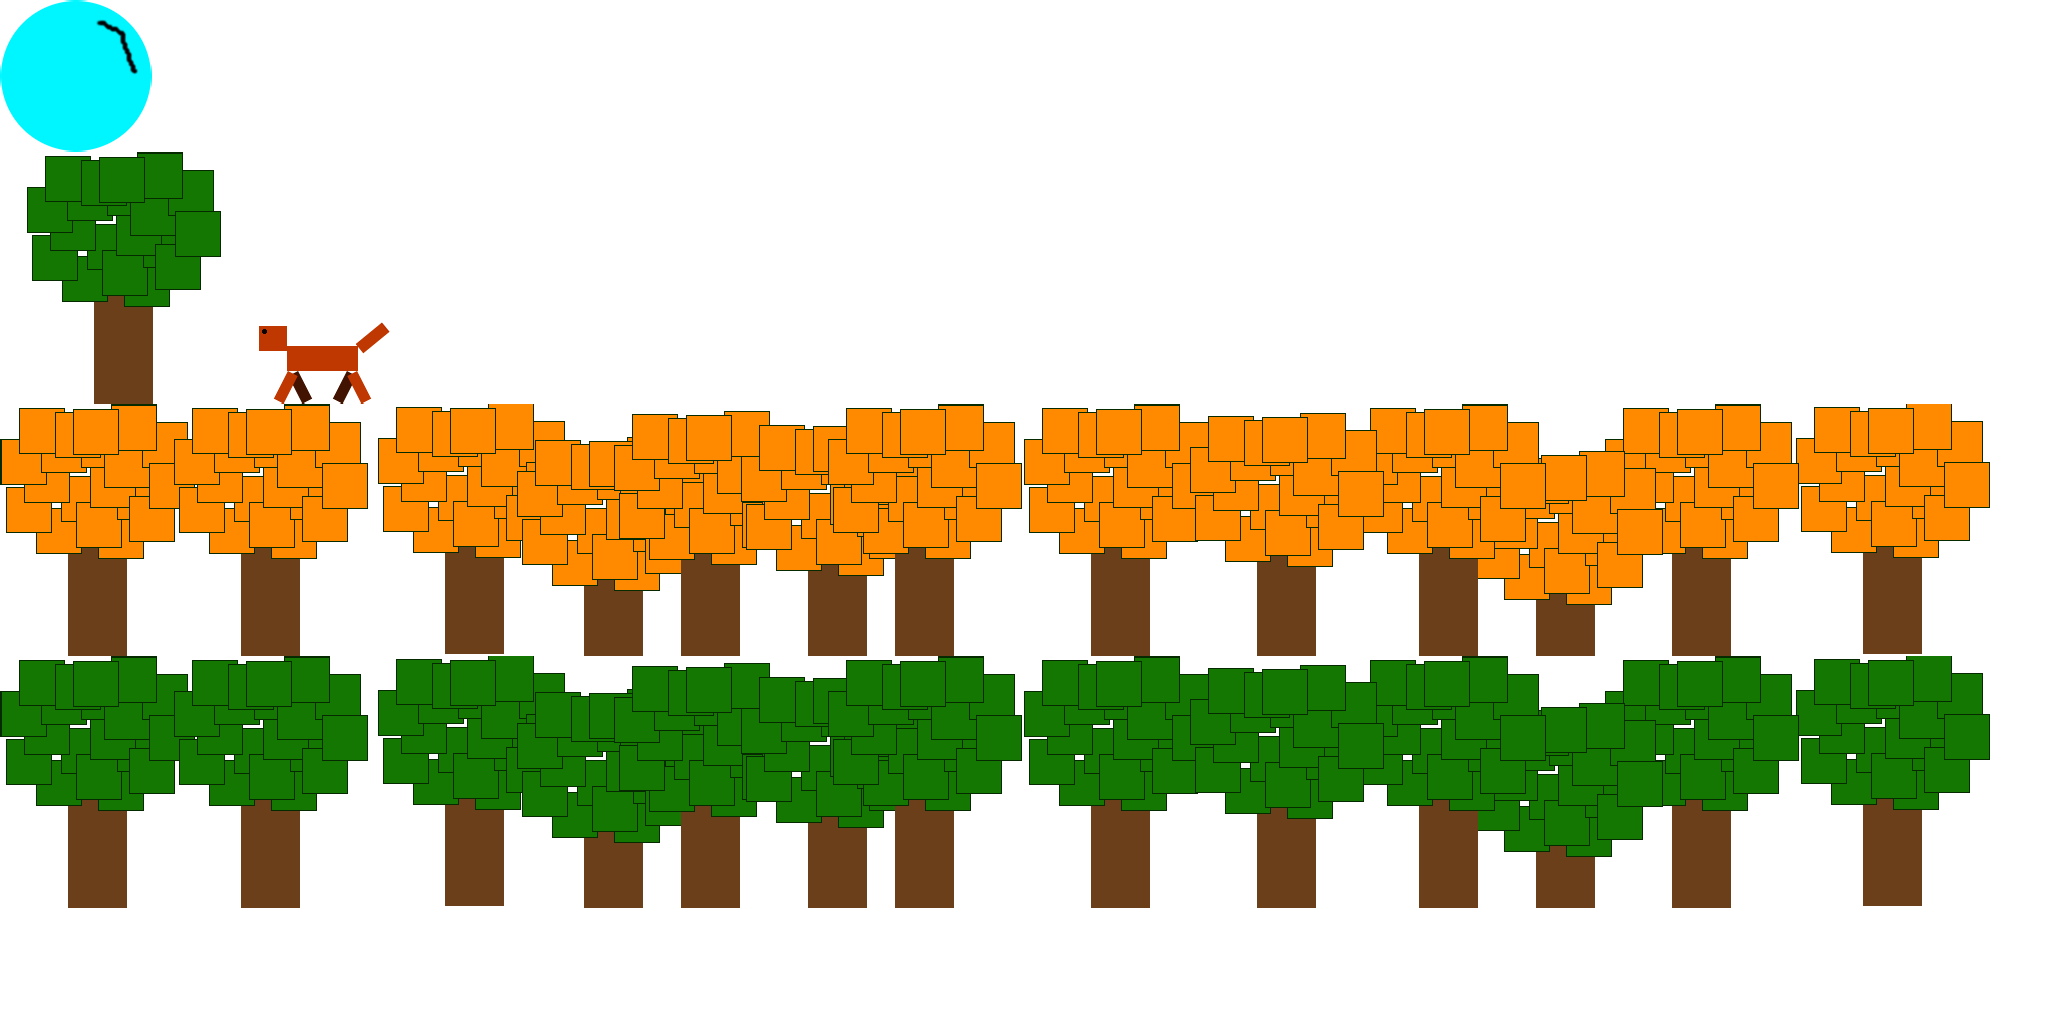
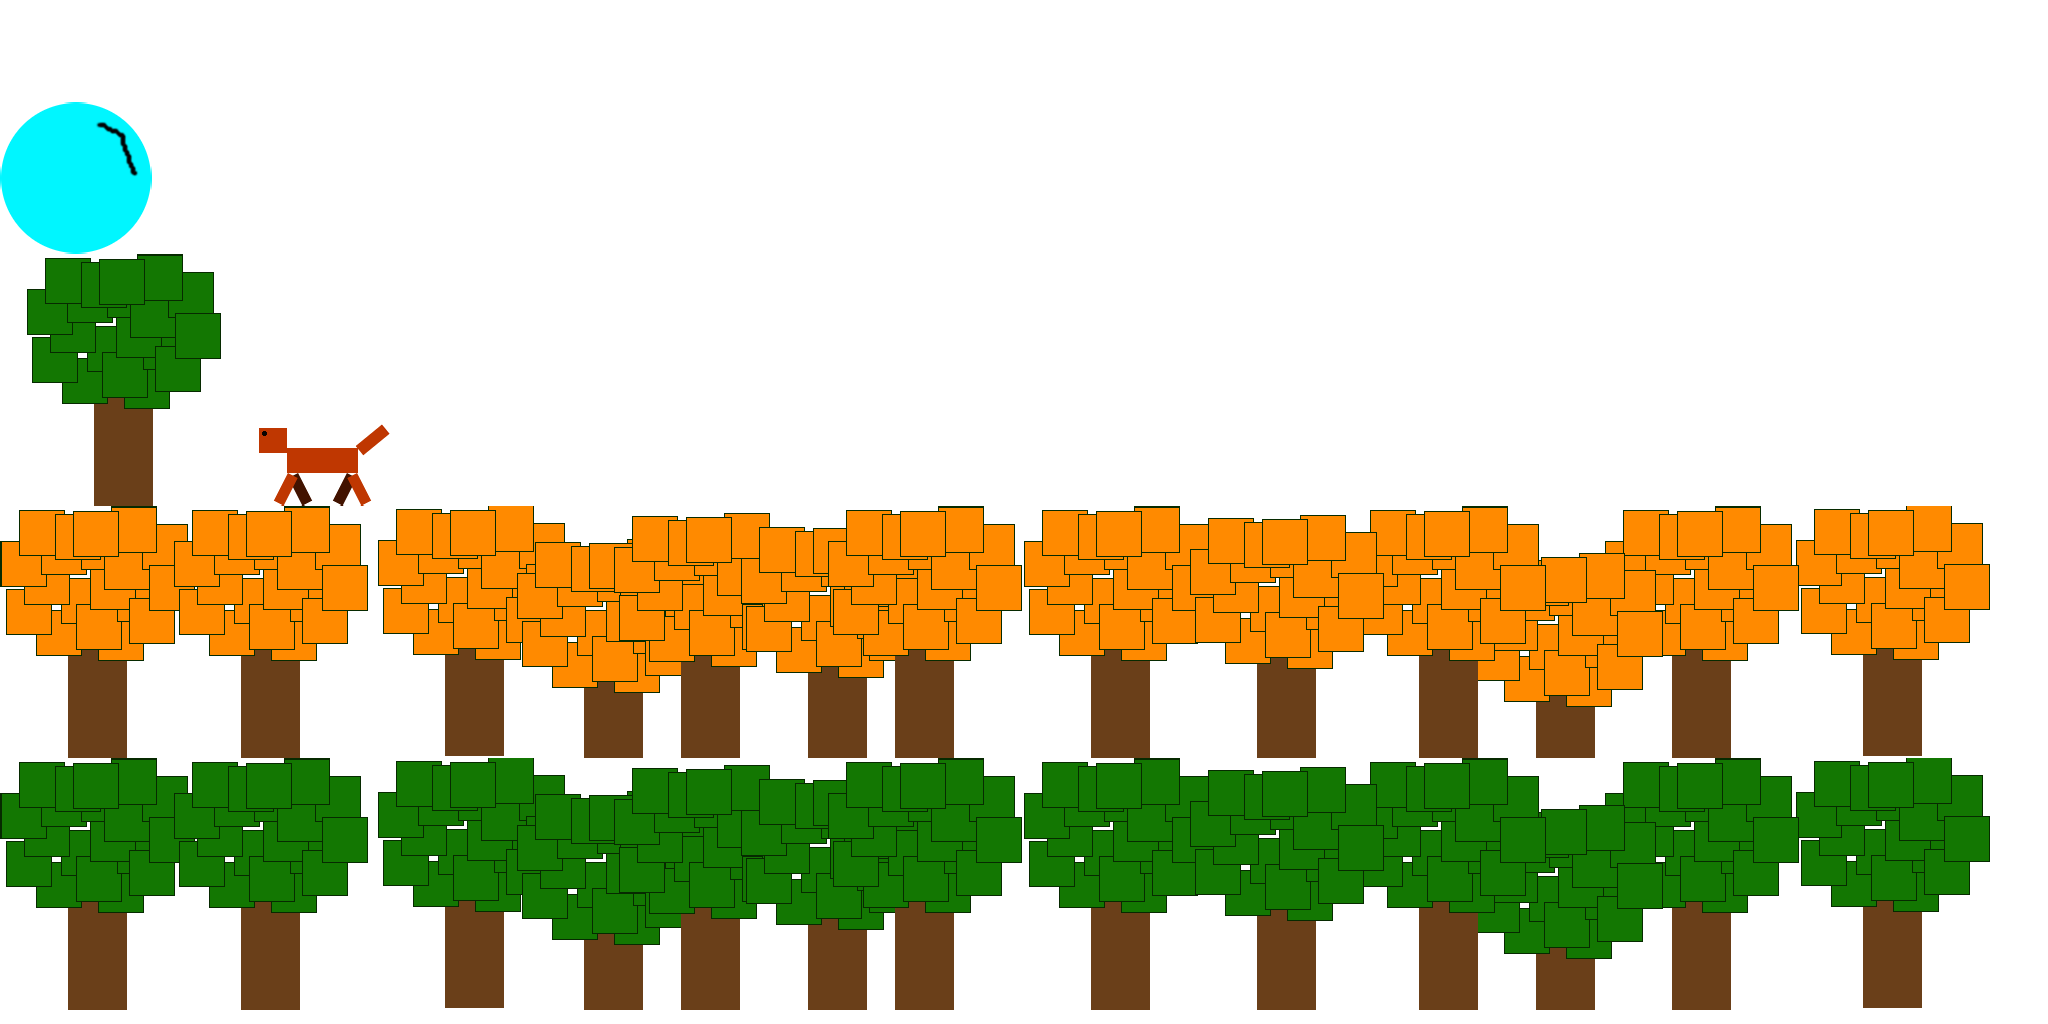
Added scaling for assets

diff --git a/Circle/core/src/com/circleboy/moveable/Moveable.java b/Circle/core/src/com/circleboy/moveable/Moveable.java
@@ -2,30 +2,49 @@ package com.circleboy.moveable;
 
 import java.util.LinkedList;
 
+import com.badlogic.gdx.graphics.g2d.BitmapFont;
 import com.badlogic.gdx.graphics.g2d.Sprite;
 import com.badlogic.gdx.graphics.g2d.SpriteBatch;
+import com.badlogic.gdx.math.Rectangle;
 import com.badlogic.gdx.math.Vector2;
 import com.circleboy.event.AbstractDrawableEvent;
+import com.circleboy.util.ScalingUtil;
 
 public class Moveable
 {
     private final Vector2 pos;
     private final Sprite sprite;
+    private float baseScreenMovement;
     private float baseMovement;
     private final LinkedList<AbstractDrawableEvent> events;
+    private final BitmapFont font;
 
-    public Moveable(final float x, final float y, final Sprite sprite, final float baseMovement)
+    public Moveable(final float x, final float y, final Sprite sprite, final float baseScreenMovement,
+            final float baseMovement)
     {
         events = new LinkedList<AbstractDrawableEvent>();
-        pos = new Vector2(x, y);
+        final Vector2 scale = ScalingUtil.getScale();
+        sprite.setScale(scale.x, scale.y);
+
+        Rectangle rect = sprite.getBoundingRectangle();
+
+        pos = new Vector2(-1 * rect.x + x, -1 * rect.y + y);
+//        pos = new Vector2(x, y);
+        System.out.println("Original pos " + x + " " + y);
+        System.out.println("\tSetting position to " + pos);
+        System.out.println("\trectangle shows " + rect);
         sprite.setPosition(pos.x, pos.y);
+
         this.sprite = sprite;
+        this.baseScreenMovement = baseScreenMovement;
         this.baseMovement = baseMovement;
+        font = new BitmapFont();
     }
 
     public void update(final Moveable circle, final float dt, final float movementFactor)
     {
-        pos.x += baseMovement * movementFactor * dt;
+        float movement = (baseScreenMovement * movementFactor + baseMovement) * dt;
+        pos.x += movement;
         sprite.setPosition(pos.x, pos.y);
 
         processEvents(circle);
@@ -34,6 +53,7 @@ public class Moveable
     public void draw(SpriteBatch batch)
     {
         sprite.draw(batch);
+        font.draw(batch, "butt", pos.x, pos.y + sprite.getHeight());
     }
 
     private void processEvents(final Moveable circle)
@@ -65,6 +85,11 @@ public class Moveable
         sprite.setPosition(x, y);
     }
 
+    public void setBaseScreenMovement(final float movement)
+    {
+        baseScreenMovement = movement;
+    }
+
     public void setBaseMovement(final float movement)
     {
         baseMovement = movement;
@@ -75,9 +100,30 @@ public class Moveable
         return pos;
     }
 
+    public float getHeight()
+    {
+        return sprite.getBoundingRectangle().height;
+    }
+
     public float getWidth()
     {
+        return sprite.getBoundingRectangle().width;
+    }
+    
+    /*
+     * Used to get the original size of a sprite's texture. Scaling changes the texture's width found by getWidth().
+     */
+    public float getOriginalSpriteWidth()
+    {
         return sprite.getWidth();
+    }
+
+    /*
+     * Used to get the original size of a sprite's texture. Scaling changes the texture's height found by getHeight().
+     */
+    public float getOriginalSpriteHeight()
+    {
+        return sprite.getHeight();
     }
 
     public Sprite getSprite()

diff --git a/Circle/core/src/com/circleboy/gamestates/GameState.java b/Circle/core/src/com/circleboy/gamestates/GameState.java
@@ -2,14 +2,19 @@ package com.circleboy.gamestates;
 
 import java.util.LinkedHashMap;
 import java.util.Map.Entry;
+import java.util.Random;
 
 import com.badlogic.gdx.ApplicationAdapter;
 import com.badlogic.gdx.Gdx;
 import com.badlogic.gdx.InputProcessor;
 import com.badlogic.gdx.assets.AssetManager;
 import com.badlogic.gdx.graphics.GL20;
+import com.badlogic.gdx.graphics.g2d.Sprite;
 import com.badlogic.gdx.graphics.g2d.SpriteBatch;
 import com.badlogic.gdx.graphics.g2d.TextureAtlas;
+import com.badlogic.gdx.math.Rectangle;
+import com.badlogic.gdx.math.Vector2;
+import com.circleboy.util.ScalingUtil;
 import com.circleboy.util.definitions.DrawableEventDefinitions;
 import com.circleboy.util.definitions.LayerEventDefinitions;
 import com.circleboy.util.definitions.TextureConstants;
@@ -28,16 +33,19 @@ public class GameState extends ApplicationAdapter implements InputProcessor
     private Moveable circle;
     private float timeSinceLastUpdate;
     private float movementFactor;
+    private Random rando;
 
     @Override
     public void create()
     {
+        ScalingUtil.setScale(Gdx.graphics.getWidth(), Gdx.graphics.getHeight());
         timeSinceLastUpdate = 0;
         movementFactor = 0;
         batch = new SpriteBatch();
         assMan = new AssetManager();
         assMan.load(TextureConstants.TILE_TEXTURES, TextureAtlas.class);
         assMan.finishLoading();
+        rando = new Random();
         atlas = assMan.get(TextureConstants.TILE_TEXTURES);
 
         scene = new LinkedHashMap<LayerType, Layer>();
@@ -52,10 +60,25 @@ public class GameState extends ApplicationAdapter implements InputProcessor
 
     private void constructScene()
     {
-        Layer tmpLayer = new Layer(atlas, LayerType.BACKGROUND, 2);
+        Layer tmpLayer = new Layer(atlas, LayerType.BACKGROUND, 3);
         scene.put(LayerType.BACKGROUND, tmpLayer);
 
         tmpLayer = new Layer(atlas, LayerType.CIRCLE, 1);
+        Sprite sprite = new Sprite(atlas.findRegion(TextureConstants.SQUARE_KEY));
+        sprite.setColor(1, 1, 0, 1);
+
+//        System.out.println("before " + sprite.getBoundingRectangle() + " width " + sprite.getWidth());
+//        final Vector2 scale = ScalingUtil.getScale();
+        sprite.setScale(.5f, .5f);
+//        System.out.println("after " + sprite.getBoundingRectangle() + " width " + sprite.getWidth());
+        sprite.setScale(1.6f, 1.6f);
+//        System.out.println("second after: " + sprite.getBoundingRectangle() + " width " + sprite.getWidth());
+        sprite.setScale(ScalingUtil.getScale().x, ScalingUtil.getScale().y);
+//        System.out.println("third after: " + sprite.getBoundingRectangle() + " width " + sprite.getWidth());
+
+        rando.nextInt(200);
+        Moveable moveable = new Moveable(0, 700, sprite, 0, 0);
+        tmpLayer.addMoveable(moveable);
         scene.put(LayerType.CIRCLE, tmpLayer);
     }
 

diff --git a/Circle/core/src/com/circleboy/event/CircleDistanceEvent.java b/Circle/core/src/com/circleboy/event/CircleDistanceEvent.java
@@ -6,13 +6,22 @@ import com.circleboy.util.MathUtils;
 
 public class CircleDistanceEvent extends AbstractDrawableEvent
 {
+    public enum Operator
+    {
+        LESS_THAN, GREATER_THAN;
+    }
+
     private float triggerDistance;
     private float speedBoost;
+    private float baseSpeed;
+    private Operator operator;
 
-    public CircleDistanceEvent(final float triggerDistance, final float speedBoost)
+    public CircleDistanceEvent(final float triggerDistance, final float speedBoost, final float baseSpeed, final Operator operator)
     {
         this.triggerDistance = triggerDistance;
         this.speedBoost = speedBoost;
+        this.operator = operator;
+        this.baseSpeed = baseSpeed;
     }
 
     @Override
@@ -21,16 +30,17 @@ public class CircleDistanceEvent extends AbstractDrawableEvent
         Vector2 p1 = circle.getPosition();
         Vector2 p2 = moveable.getPosition();
         float distance = MathUtils.getDistance(p1, p2);
-        if(distance <= triggerDistance)
-            return true;
+        if(Operator.LESS_THAN.equals(operator))
+            return Float.compare(distance, triggerDistance) < 0;
 
-        return false;
+        return Float.compare(distance, triggerDistance) > 0;
     }
 
     @Override
     protected void process(final Moveable circle, final Moveable moveable)
     {
-        moveable.setBaseMovement(speedBoost);
+        moveable.setBaseScreenMovement(speedBoost);
+        moveable.setBaseMovement(baseSpeed);
     }
 
     @Override

diff --git a/Circle/core/src/com/circleboy/util/definitions/DrawableEventDefinitions.java b/Circle/core/src/com/circleboy/util/definitions/DrawableEventDefinitions.java
@@ -6,6 +6,7 @@ import java.util.Map;
 
 import com.circleboy.event.AbstractDrawableEvent;
 import com.circleboy.event.CircleDistanceEvent;
+import com.circleboy.moveable.Layer.LayerType;
 
 public class DrawableEventDefinitions
 {
@@ -19,7 +20,16 @@ public class DrawableEventDefinitions
     public static final void initializeDrawableEventDefinitions()
     {
         LinkedList<AbstractDrawableEvent> tmpList = new LinkedList<AbstractDrawableEvent>();
-        CircleDistanceEvent event = new CircleDistanceEvent(300.0f, 100.0f);
+        //TODO these values need to be a ratio of the screen resolution!
+        CircleDistanceEvent event = new CircleDistanceEvent(900.0f, 0.0f, 100.0f, CircleDistanceEvent.Operator.LESS_THAN);
+        tmpList.add(event);
+        event = new CircleDistanceEvent(1220.0f, LayerType.BACKGROUND.getMovementSpeed(), 0.0f, CircleDistanceEvent.Operator.GREATER_THAN);
+        tmpList.add(event);
+        event = new CircleDistanceEvent(600.0f, 0f, 200.0f, CircleDistanceEvent.Operator.LESS_THAN);
+        tmpList.add(event);
+        event = new CircleDistanceEvent(900.0f, 0f, 50.0f, CircleDistanceEvent.Operator.GREATER_THAN);
+        tmpList.add(event);
+        event = new CircleDistanceEvent(1600.0f, LayerType.BACKGROUND.getMovementSpeed(), 0.0f, CircleDistanceEvent.Operator.GREATER_THAN);
         tmpList.add(event);
 
         DRAWABLE_EVENTS.put(DrawableEventType.FOX, tmpList);

diff --git a/Circle/core/src/com/circleboy/moveable/Layer.java b/Circle/core/src/com/circleboy/moveable/Layer.java
@@ -67,7 +67,7 @@ public class Layer
         for(int i = 0; i < numberOfNodes; i++)
         {
             Moveable tmpMoveable = new Moveable(x, y, new Sprite(atlas.findRegion(layerSpriteKey)),
-                    layerType.getMovementSpeed());
+                    layerType.getMovementSpeed(), 0);
             nodes.add(tmpMoveable);
             x += tmpMoveable.getWidth();
         }
@@ -80,7 +80,7 @@ public class Layer
 
         Moveable first = nodes.getFirst();
         Vector2 position = first.getPosition();
-        float width = first.getWidth();
+        float width = first.getOriginalSpriteWidth();
         if(position.x + width < 0)
         {
             wrapNumber++;

diff --git a/Circle/core/src/com/circleboy/util/ScalingUtil.java b/Circle/core/src/com/circleboy/util/ScalingUtil.java
@@ -1,0 +1,25 @@
+package com.circleboy.util;
+
+import com.badlogic.gdx.math.Vector2;
+
+public class ScalingUtil
+{
+    private static Vector2 scale = new Vector2(1, 1);
+    private static Vector2 baseResolution = new Vector2(1920, 1080);
+
+    public static void setScale(final float x, final float y)
+    {
+        scale.x = x / baseResolution.x;
+        scale.y = y / baseResolution.y;
+    }
+
+    public static void setScale(final Vector2 resolution)
+    {
+        setScale(resolution.x, resolution.y);
+    }
+
+    public static Vector2 getScale()
+    {
+        return scale;
+    }
+}

diff --git a/Circle/core/src/com/circleboy/event/AddDrawableEvent.java b/Circle/core/src/com/circleboy/event/AddDrawableEvent.java
@@ -39,7 +39,7 @@ public class AddDrawableEvent extends AbstractLayerEvent
     protected void process()
     {
         Moveable moveable = new Moveable(offset, 0, new Sprite(atlas.findRegion(textureKey)),
-                LayerType.BACKGROUND.getMovementSpeed());
+                LayerType.BACKGROUND.getMovementSpeed(), 0);
 
         moveable.addEventList(DrawableEventDefinitions.getDrawableEventList(DrawableEventType.FOX));
 

diff --git a/Circle/core/src/com/circleboy/util/definitions/TextureConstants.java b/Circle/core/src/com/circleboy/util/definitions/TextureConstants.java
@@ -7,4 +7,5 @@ public class TextureConstants
     public static final String TREES_ORANGE_TEXTURE_KEY = "TreesOrange";
     public static final String CIRCLE_TEXTURE_KEY = "Circle";
     public static final String FOX_TEXTURE_KEY = "Fox";
+    public static final String SQUARE_KEY = "Square";
 }
